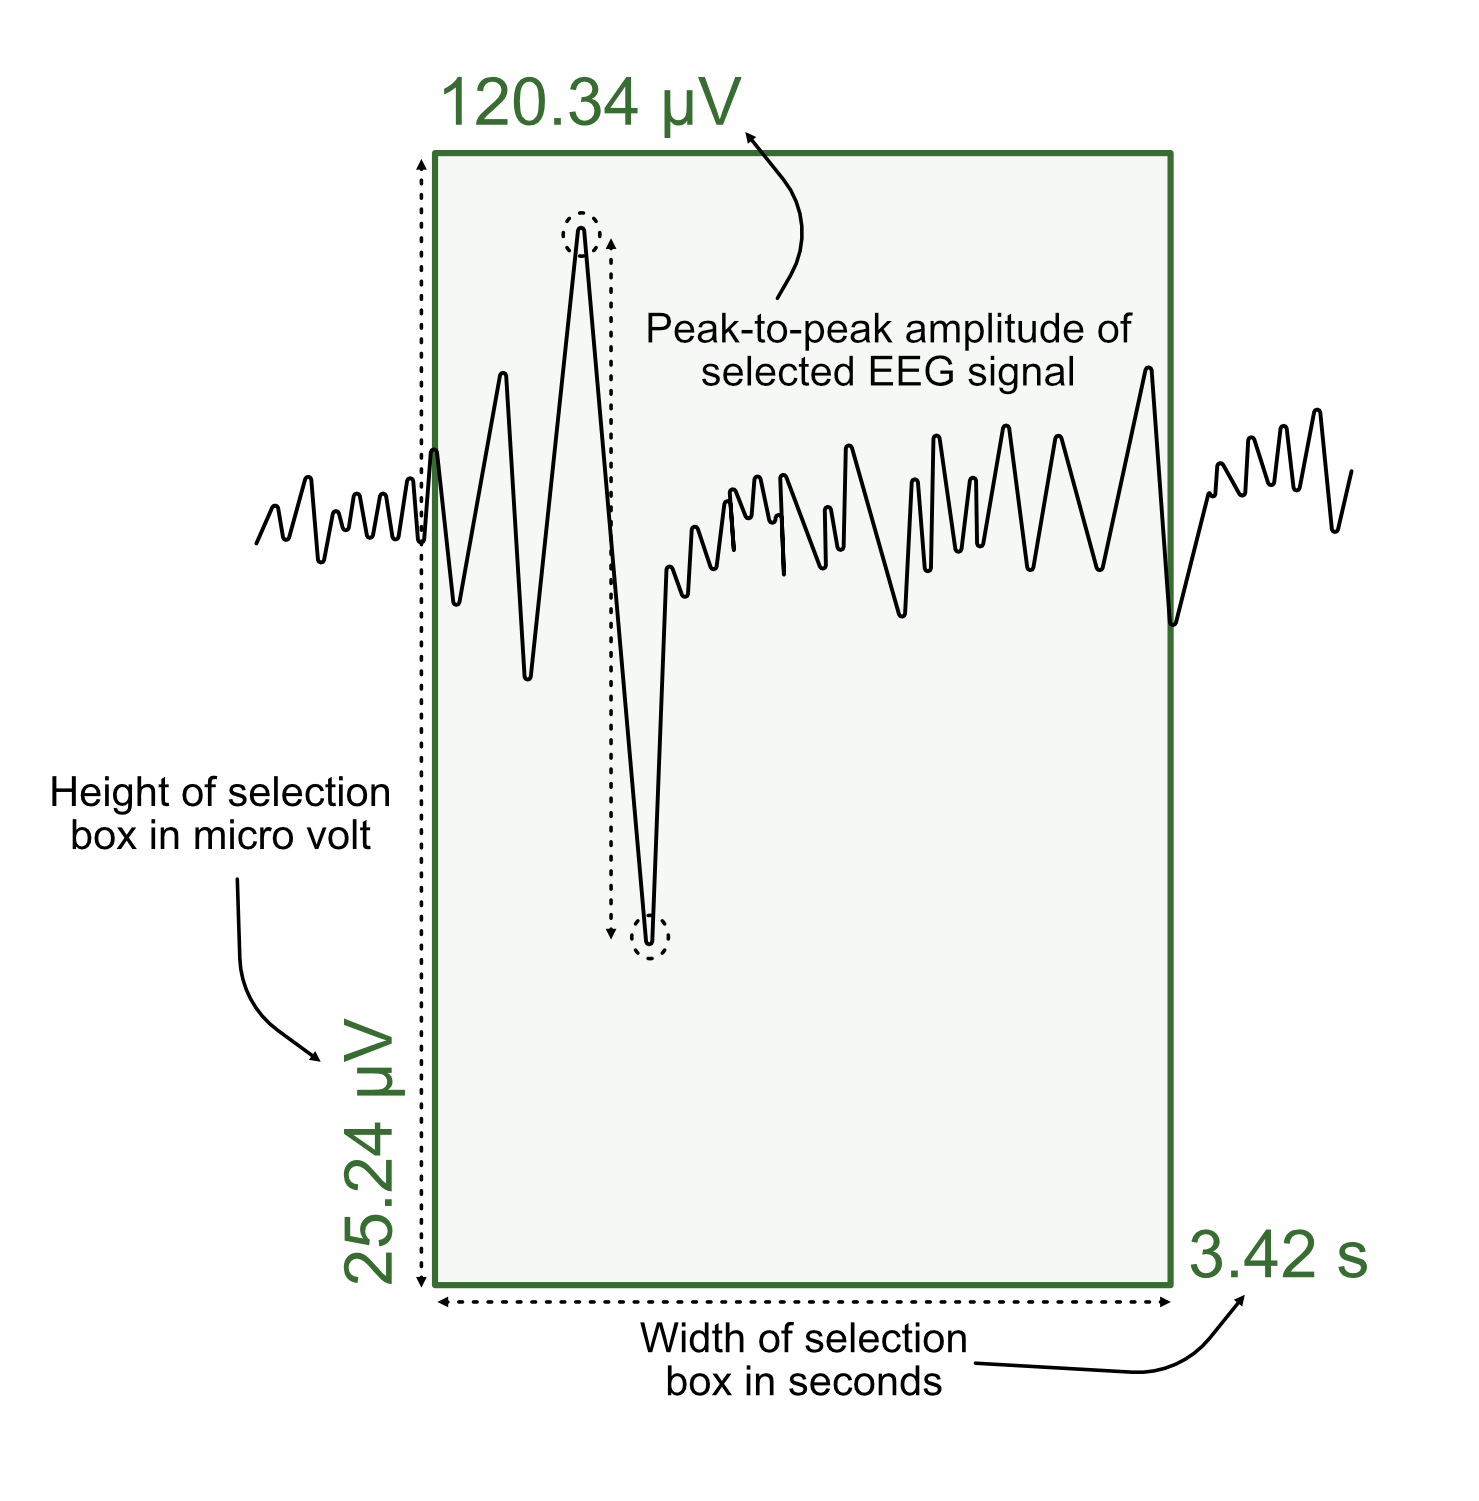
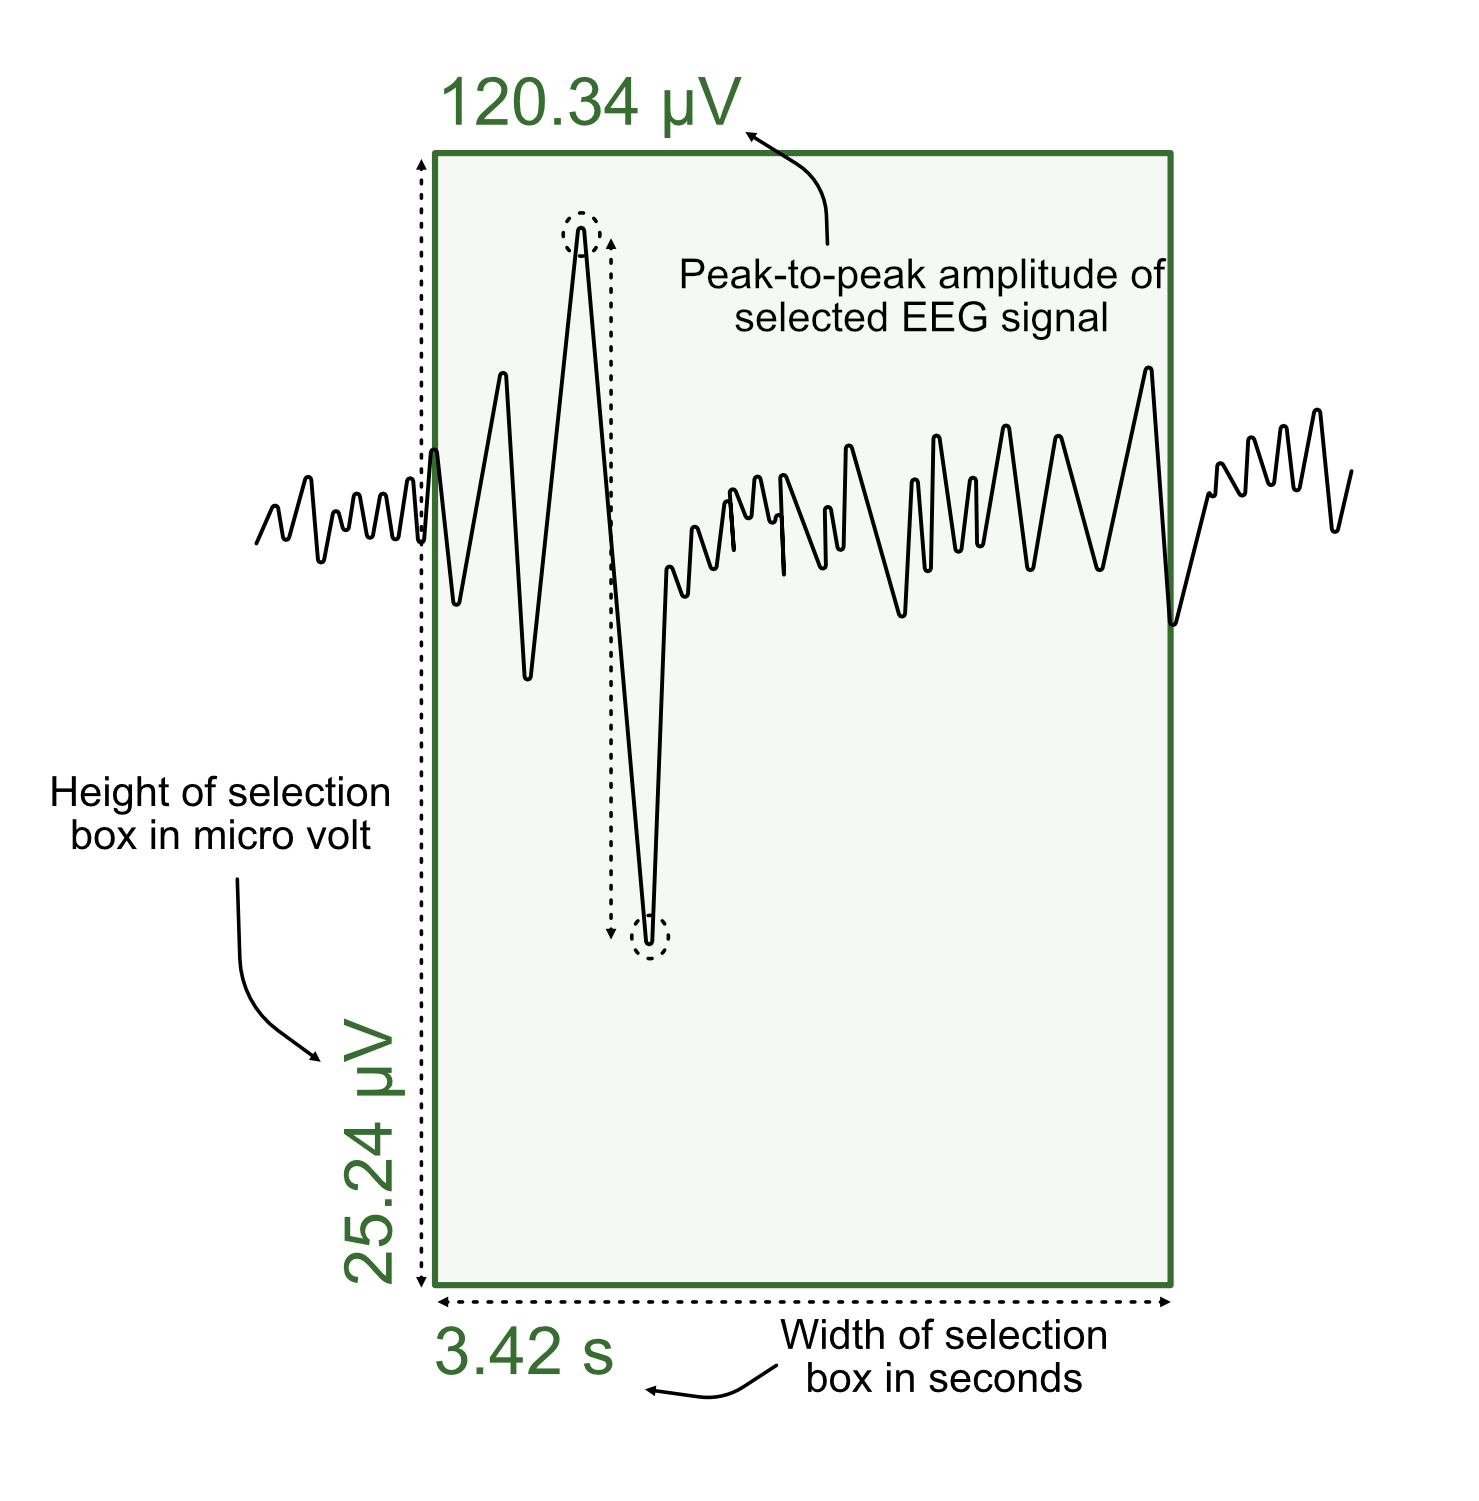
[MOD] Moved duration text to lower left corner of the box

Changed region(s): [[0.4354, 0.0919, 0.7776, 0.2758], [0.2799, 0.8581, 0.8087, 0.95], [0.8087, 0.8274, 0.9331, 0.8887]]

diff --git a/widgets/signalWidget.py b/widgets/signalWidget.py
@@ -193,7 +193,7 @@ class SignalWidget(QWidget):
         # self.changesMade.emit()
 
         # Rectangle shape text
-        self.text_period = pg.TextItem(text="", color=(10, 100, 10), anchor=(0, 0.75))
+        self.text_period = pg.TextItem(text="", color=(10, 100, 10), anchor=(0.1, 0.2))
         font = QFont()
         font.setPixelSize(12)
         self.text_period.setFont(font)

diff --git a/paint_event/rectangle_size.py b/paint_event/rectangle_size.py
@@ -31,7 +31,7 @@ def rectangle_size(ui, eeg_in_rectangle, converted_corners, converted_shape):
         text = f"{round(converted_shape[-1][0], 2)} s"
 
         corner = converted_corners[-1]
-        xposition = corner[1].x()
+        xposition = corner[0].x()
         yposition = min(corner[0].y(), corner[1].y())
 
         ui.SignalWidget.text_period.setPos(xposition, yposition)
